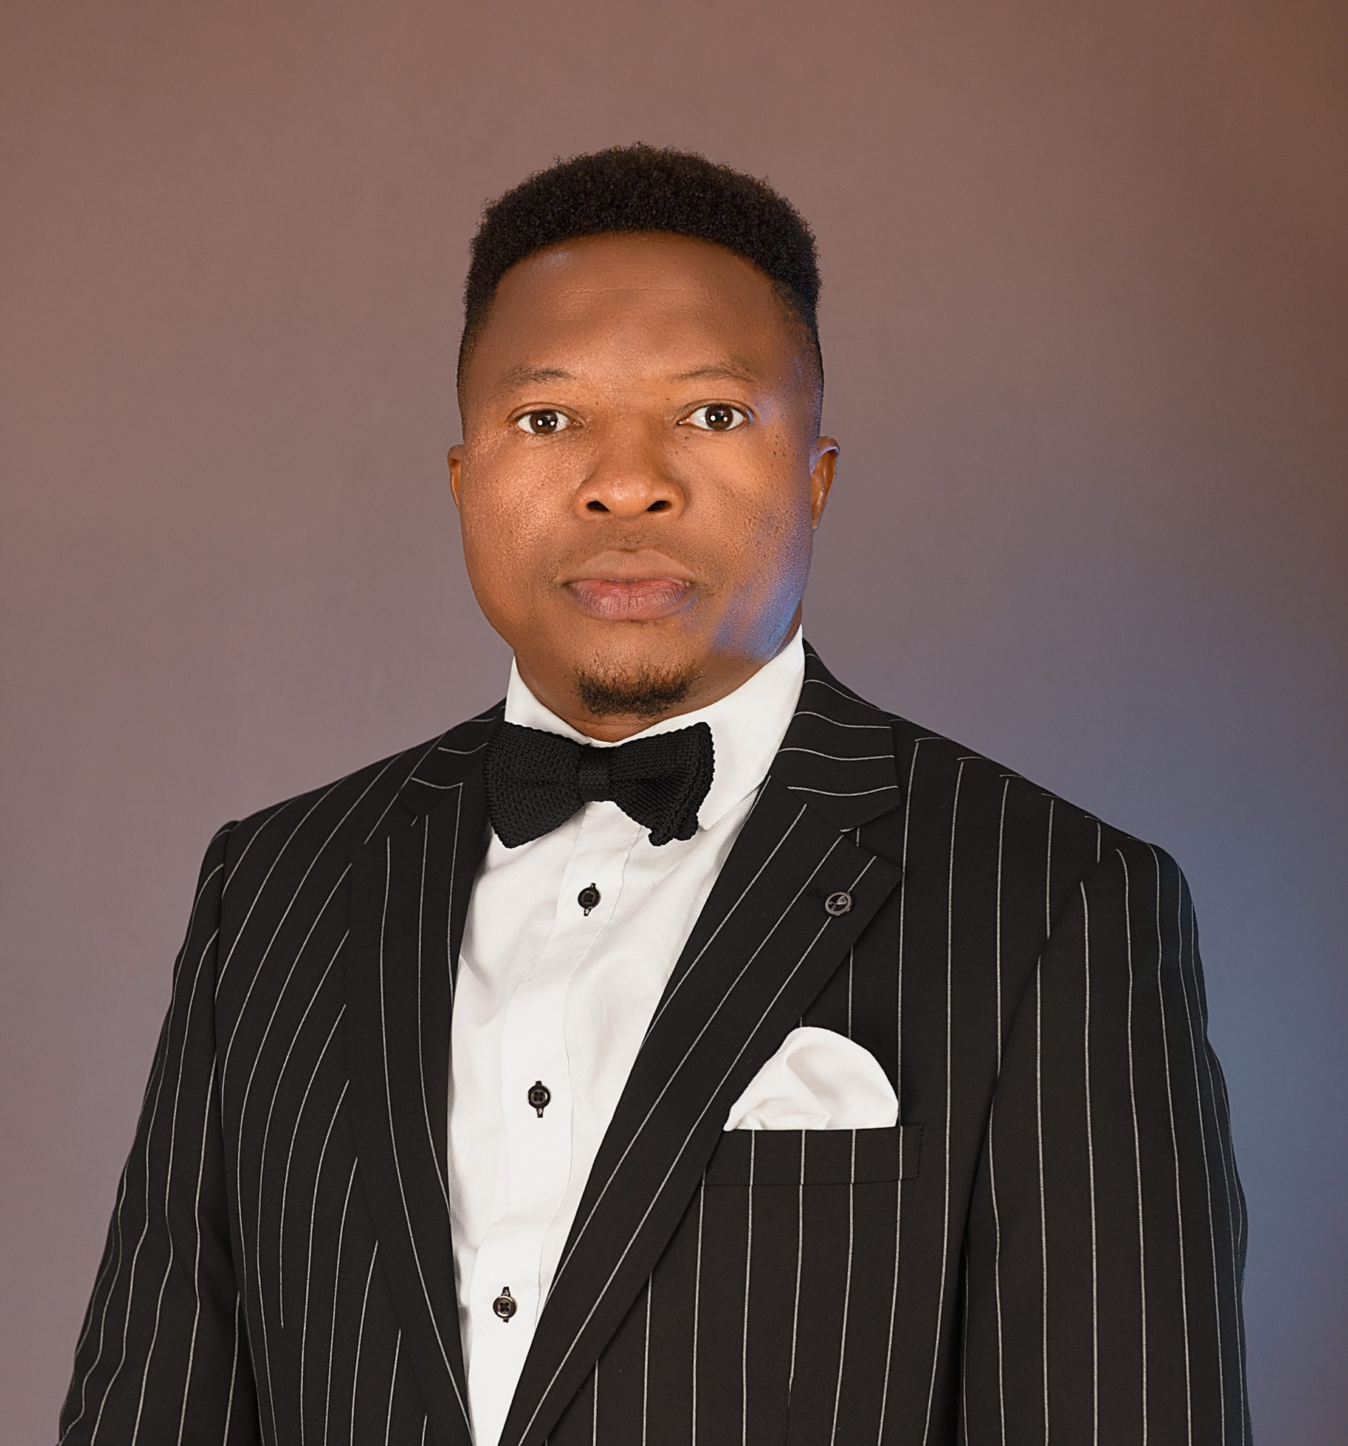
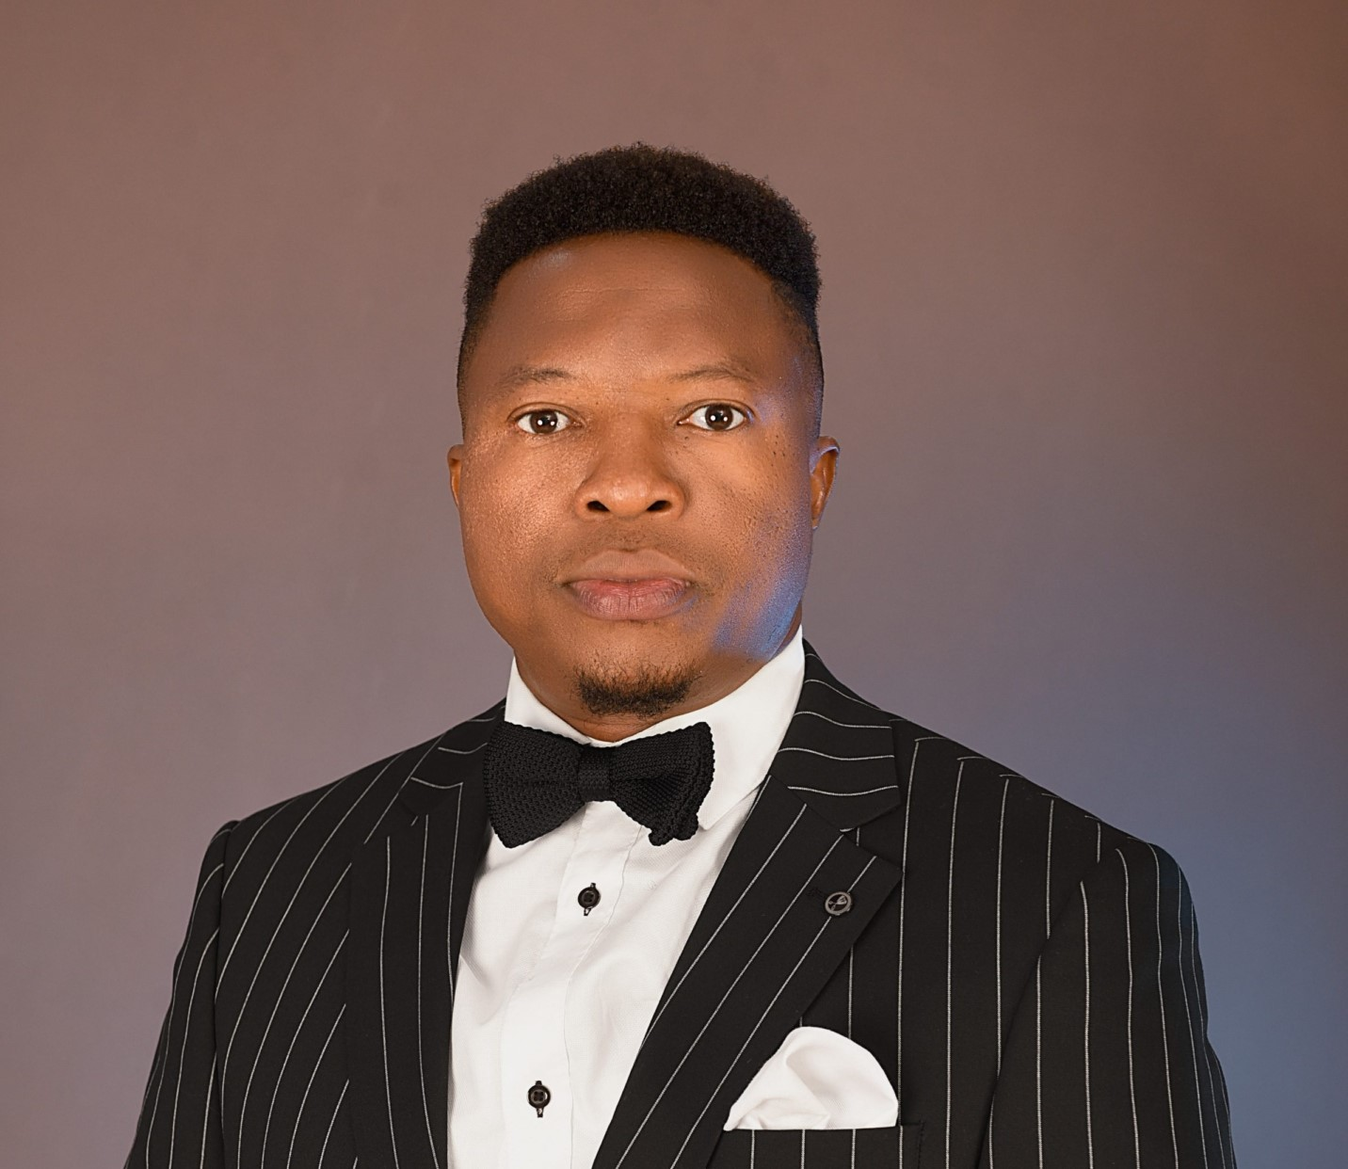
Updated text

Changed region(s): [[0.0307, 0.0918, 0.9525, 1.0]]

diff --git a/src/pages/BoardOfDirectorsPage.jsx b/src/pages/BoardOfDirectorsPage.jsx
@@ -2,7 +2,7 @@ import Mainlayout from "../Mainlayout";
 import CorporateStatement from "../components/CorporateStatement";
 import GetInTouch from "../components/GetInTouch";
 import Footer from "../components/Footer";
-import chairman from "../assets/images/chairman.png";
+import founders from "../assets/images/founders.jpg";
 import president from "../assets/images/president.jpg";
 import Daniel from "../assets/images/Daniel.jpg";
 import peace from "../assets/images/peace.jpg";
@@ -16,22 +16,34 @@ const BoardOfDirectorsPage = () => {
                     <div className="absolute right-0 bottom-0 opacity-15 ">
                         <img src={note_des} className="h-52" />
                     </div>
-                    <div className="flex py-12 xl:py-24 xl:gap-4 flex-col xl:flex-row">
+                    <div className="flex items-center py-12 xl:py-24 xl:gap-4 flex-col xl:flex-row">
                         {/* Image Section */}
-                        <div className="flex-1 w-full  text-center">
-                            <img src={chairman} className="w-full h-auto" alt="PWAN Haven Staff" />
+                        <div className="flex-1 text-center">
+                            <img src={founders} className="w-full h-auto" alt="PWAN Haven Staff" />
                         </div>
 
                         {/* Text Section */}
                         <div className="flex-1">
                             <h2 className="text-blue-900 text-2xl text-left mb-4 font-bold xl:text-left">Dr Augustine OziomaOnwumere</h2>
                             <p className="text-sm  text-red-600 font-semibold mb-4">Founders Of PWAN GROUP</p>
-                            <p className="text-xs xl:text-sm text-gray-400 leading-6 font-semibold">
-                                We As the vision bearer, Dr. Augustine and Dr Jayne Onwumere demonstrated to the World how to successfully operate the business of Real Estate Network Marketing, entrusting the leadership of PWAN GROUP ( with over 70 affiliates Companies) into the hands of members and Promoters of the Business who ones were independent marketers in the organisation that has lead millions of people out of poverty and lack into prosperity and financial freedom just by opening centers that train and recruit novices and people who must discover Real Estate Network Marketing.
+                            <p className="text-xs xl:text-sm text-gray-400 leading-6 font-semibold text-justify">
+                                The story of Dr. Augustine Ozioma Onwumere and Dr. Jayne Obioma Onwumere is truly inspiring and a testament to resilience, vision, and unwavering commitment to human empowerment. Their journey—from leaving their comfort zones to facing homelessness while still honoring their financial obligations—demonstrates remarkable integrity and perseverance.
+
+                                Key Highlights of Their Journey:
+                                Pursuit of Personal Development: Despite challenges, they remained dedicated to self-improvement and business growth, engaging in network marketing and human capacity development.
+
+                                Failure as a Stepping Stone: The collapse of their first venture, Learning World, led to two years of homelessness, yet they prioritized repaying investors—an act of rare ethical responsibility.
+
+                                Birth of PWAN: Out of their struggles emerged Property World Africa Network (PWAN), a groundbreaking empowerment platform that has grown exponentially, now encompassing over 64 affiliate companies and 63 Managing Directors.
+
+                                Expansion and Impact: With over 1,200 staff across Nigeria and beyond, PWAN stands as a beacon of African entrepreneurship and empowerment.
+
+                                Legacy of the Onwumeres:
+                                Their story underscores that true success is born from perseverance, ethical leadership, and a commitment to uplifting others. PWAN’s growth reflects not just a business triumph but a movement transforming lives across Africa.
                             </p>
                         </div>
                     </div>
-                    <div className="flex py-12 xl:py-24 xl:gap-4 flex-col xl:flex-row">
+                    <div className="flex items-center py-12 xl:py-24 xl:gap-4 flex-col xl:flex-row">
                         {/* Image Section */}
                         <div className="flex-1 w-full  text-center">
                             <img src={president} className="w-full h-auto" alt="PWAN Haven Staff" />
@@ -41,12 +53,26 @@ const BoardOfDirectorsPage = () => {
                         <div className="flex-1">
                             <h2 className="text-blue-900 text-2xl text-left mb-4 font-bold xl:text-left">Dr Jane Obioma Onwumere</h2>
                             <p className="text-sm  text-red-600 font-semibold mb-4">Co-Founders Of PWAN GROUP</p>
-                            <p className="text-xs xl:text-sm text-gray-400 leading-6 font-semibold">
-                                We As the vision bearer, Dr. Augustine and Dr Jayne Onwumere demonstrated to the World how to successfully operate the business of Real Estate Network Marketing, entrusting the leadership of PWAN GROUP ( with over 70 affiliates Companies) into the hands of members and Promoters of the Business who ones were independent marketers in the organisation that has lead millions of people out of poverty and lack into prosperity and financial freedom just by opening centers that train and recruit novices and people who must discover Real Estate Network Marketing.
+                            <p className="text-xs xl:text-sm text-gray-400 leading-6 font-semibold text-justify">
+                                Dr Jayne Obioma Onwumere (Sun Man of the Year 2024) epitomizes visionary leadership as the Co-founder of Properly World Africa Network (PWAN), the first real estate network marketing company in the World. Since its inception in March 2012 as PWAN HOMES Limited, Dr Jayne has steered the organization to unparalleled success. She is currently serving as the President/Chief Executive Officer and Group Managing Director of PWAN and oversees a vast network comprising 63 Managing Directors and over 1200 full-time staff across 62 affiliate companies. Under her guidance, PWAN has cultivated a dynamic community of over 300,000 independent real estate professionals globally popularly known as PWAN Business Owners (PBOs).
+
+                                Driven by a relentless passion for networking and a strength-based approach, Dr Jayne Obioma Onwumere pioneered an innovative expansion strategy. Three years into the company’s operation, through this expansion initiative, PWAN HOMES formed a strategic partnership with independent consultants to establish additional companies within the PWAN Group. This groundbreaking growth initiative is a move that has no precedence in the history of business in Nigeria and has redefined business paradigms in Nigeria and beyond.
+
+                                Committed to addressing societal challenges, Dr O.J Onwumere launched the PWAN Food Network, aligning with the World Sustainable Development Goals of zero hunger. This initiative, dubbed "The Now Revolution," complements PWAN's vision of promoting home ownership while tackling food insecurity nationwide. This idea with the home ownership vision increased the organizational spread with physical presence in all 36 states of the Federation and the Federal Capital Territory, Abuja, Nigeria.
+
+                                In 2017, being a staunch advocate for women empowerment, “Mama Africa” as fondly called initiated the "Empowerment for all Women" Program, providing financial support to 50 women to start or enhance their businesses. Her empowerment program for women has been strengthened through partnerships with sponsors who are equally dogged and determined to liberate the woman gender from hardship to having a decent life. She has since continued to expand this program, offering monthly pay of N100,000 each to a new set of twelve women in 2020 with plans for further growth in no distant time.
+
+                                Her philanthropic endeavors across Nigeria are unparalleled and extend beyond economic empowerment. This is evidenced in September 2022, through her contribution to renovating and equipping two unmaintained primary schools in Nsukwa, Aniocha South LGA of Delta State Nigeria. Believing in the transformative power of education, provision for furniture, new uniforms and books were not left out in her agenda as Dr Jayne remains dedicated to securing a brighter future for children nationwide.
+
+                                Together with her husband, she pays school fees for so many children, pays house rent for many and keeps a completely open door policy that has made many refer to her as "Mummy, Mama Africa, Global Mummy" etc. All these eventually birthed the launch of the Jayne Onwumere Foundation in March 2024. A service that aims at providing aid, resources, and advocacy to those in need, advancing education, and contributing to the overall well-being of the society.
+
+                                In recognition of her outstanding contributions, Dr. Onwumere was awarded an Honorary Doctorate Degree by the European-American University, Commonwealth of Dominica. Additionally, she was honored as one of the "Top 100 Most Influential Women" by the Lagos State Government for her innovative strategies and impactful empowerment programs in real estate network marketing.
+
+                                She recently received the prestigious "Sun Man of the Year Award 2024," the first of its kind for a woman, "Sun Investor of the Year 2023 award" all from the SUN Publishing in Nigeria, recognizing her significant contributions to human capital investment among distinguished figures in the country. A lifelong learner, Dr. Onwumere has enriched her leadership acumen through programs at the Lagos Business School and the prestigious Owner President Management Program at Harvard University. Married to her best friend and both are blessed with lovely children, she finds fulfillment in family life while continuing to inspire positive change in society through the Jayne Onwumere Foundation, dedicated to promoting education and well-being for all.
                             </p>
                         </div>
                     </div>
-                    <div className="flex py-12 xl:py-24 xl:gap-4 flex-col xl:flex-row">
+                    <div className="flex items-center py-12 xl:py-24 xl:gap-4 flex-col xl:flex-row">
                         {/* Image Section */}
                         <div className="flex-1 w-full  text-center">
                             <img src={Daniel} className="w-full h-auto" alt="PWAN Haven Staff" />
@@ -56,11 +82,24 @@ const BoardOfDirectorsPage = () => {
                         <div className="flex-1">
                             <h2 className="text-blue-900 text-2xl text-left mb-4 font-bold xl:text-left">Daniel Nnadi</h2>
                             <p className="text-sm  text-red-600 font-semibold mb-4">MD/CEO</p>
-                            <p className="text-xs xl:text-sm text-gray-400 leading-6 font-semibold">
-                            Daniel Nnamdi is a visionary leader and an accomplished real estate professional with a proven track record in property development, investment, and urban planning. As the Managing Director/CEO of PWANHORIZON, he/she has been instrumental in transforming Nigeria’s real estate landscape by delivering innovative, sustainable, and high-value property solutions                            </p>
+                            <p className="text-xs xl:text-sm text-gray-400 leading-6 font-semibold text-justify">
+                                NNADI Daniel Osonduagwike (Global Salesman), is a seasoned Real Estate Investment Advisory Professional, an active citizen, an ardent advocate of the first world mindset, a strong proponent of transformational values, and servant leader with over 14 years professional experience cutting across Human Resources, Executive Management, Real Estate, Sales and Marketing, and Leadership Development.
+
+                                Daniel graduated with a BA. (Hons.) in Fine and Applied Art with options in (Graphics and Advertising) from Imo State University, a Mini-MBA in General Business Administration from Tekedia Institute Boston, a PMP certified project manager, a Certified Negotiation Specialist, a trained Ec-council CRM, and an alumnus of Junior Chamber International Leadership Academy.
+
+                                In 2010 he started his career in the HR department of United Bank for Africa HQ Marina, and led a team of colleagues in UBA Nigeria staff guarantor’s validation project. In 2012, he took up the opportunity to express his intent in the real estate sector by joining the sales force of PWAN Group. Through the platform created by PWAN, Daniel gained momentum and has today evolved with rooted knowledge in the real estate industry by servicing a pool of clientele both within and the diaspora.
+
+                                In March 2019, Daniel was appointed into the board of PWAN LEKKI as the Executive Director/Chief Operations Officer, in 2024 he was elevated to lead in the capacity of MD/CEO of PWAN Horizon where he oversees the daily operations and activities of the company while envisioning and implementing growth strategies. For a period spanning 13 years working with PWAN, first within her independent sales force, he has acquired and delivered diverse training locally and internationally and has widely traveled under the auspices of the company.
+
+                                As an active citizen and a member of Junior Chamber International, He served as the 21st President of Lagos Coral chapter in 2021. As part of recognition for his outstanding and continued service, he was awarded with JCI Senatorship, a life membership honor. He holds a diploma in Ministerial leadership from Proof Producers Bible School, he is a graduate of Leadership Masterclass at GOTNI Leadership Centre under the mentorship of Dr. Linus Okorie. He did an Oak seed Executive Leadership Course at Institute for National Transformation.
+
+                                He remained career focused and believes in the philosophy of the “the road less traveled”. He loves reading and is obsessed with good music.
+
+                                His Pulse: Advocating the oasis of the first world mindset in the third world Nations.
+                            </p>
                         </div>
                     </div>
-                    <div className="flex py-12 xl:py-24 xl:gap-4 flex-col xl:flex-row">
+                    <div className="flex items-center py-12 xl:py-24 xl:gap-4 flex-col xl:flex-row">
                         {/* Image Section */}
                         <div className="flex-1 w-full  text-center">
                             <img src={peace} className="w-full h-auto" alt="PWAN Haven Staff" />
@@ -70,11 +109,34 @@ const BoardOfDirectorsPage = () => {
                         <div className="flex-1">
                             <h2 className="text-blue-900 text-2xl text-left mb-4 font-bold xl:text-left">Peace O. Nnadi</h2>
                             <p className="text-sm  text-red-600 font-semibold mb-4">Non-Executive Director</p>
-                            <p className="text-xs xl:text-sm text-gray-400 leading-6 font-semibold">
-                            Peace is a Non-Executive Director at PWANHORIZON, offering strategic guidance and oversight to support the company’s growth in Nigeria’s real estate sector. With expertise in Real Estate, she contributes to sound governance and long-term planning.                            </p>
+                            <p className="text-xs xl:text-sm text-gray-400 leading-6 font-semibold text-justify">
+                                Nnadi Peace Oluebubechukwu is a seasoned Marketing and Real Estate professional, an experienced fashion designer and tutor with over 8 years professional experience cutting across Brand Marketing, Real Estate Marketing and Fashion Designing.
+
+
+
+                                She started her Career in 2016 in the sales and marketing department of Easylife Microfinance Bank where her knowledge about marketing was deployed to transform the company’s customer base and its cash flow. In 2017 she went ahead to work in a branding firm (JUST BRAND IT) as the executive marketing manager before she was called to serve (NYSC) where she taught as the marketing teacher.
+
+
+
+                                Peace was privileged to attend FGC Okigwe where she earned her SSCE. She proceeded to Abia State University and graduated with a BSc (Hons) in Marketing. Her passion for fashion and its enthusiasm led her to attend the prestigious Prudential Fashion Academy where she advanced her skills in Fashion designing haven initially gained the knowledge during NYSC.
+
+
+
+                                In 2018 she launched her fashion brand. Her quest to make a difference drove her in search of opportunities that will accommodate her passion for fashion and her career in marketing. In 2019 she joined the PWAN Group after briefly working for a Real Estate company in Lagos. In her first year in PWAN having understood the company's reward system, she has closed multiple deals and also emerged as one of the Group’s performance bonus earners.
+
+
+
+                                In 2024 she was appointed Non-Executive Director in PWAN Horizon.
+
+                                She is a graduate of the Institute for National Transformation's History Makers.
+
+
+
+                                Peace is a passionate, positive, and energy filled personality who loves good music, dancing and watching movies.
+                            </p>
                         </div>
                     </div>
-                    
+
                 </div>
 
             </div>

diff --git a/src/components/Form.jsx b/src/components/Form.jsx
@@ -3,7 +3,7 @@ import box_des from "../assets/svg_designs/box_design.svg";
 import { IoPin } from "react-icons/io5";
 
 
-const Form = ({ estateflyer, estatename, estatestyle, estatedes, estatefulldes, estateamenities, estatelocation, estateform }) => {
+const Form = ({ estateflyer, estatename, estatestyle, estatedes, estatefulldes, estateamenities, estatelocation, estateform, estateextralocation, estateextra }) => {
     return (
         <div className="bg-white p-10 xl:p-20 w-full xl:w-4/5 mb-24 relative">
             {/* Background Designs */}
@@ -37,6 +37,22 @@ const Form = ({ estateflyer, estatename, estatestyle, estatedes, estatefulldes, 
 
                 {
                     estatelocation.map((value, index) => (
+                        <p key={index} className="flex gap-1 items-center text-gray-500 mb-2 text-sm font-semibold">
+                            <IoPin className="text-red-600 " />
+                            {value}
+                        </p>
+                    ))
+                }
+
+                {
+                    estateextra.map((value, index) => (
+                        <p key={index} className="text-gray-500 mb-2 text-sm font-semibold">{value}</p>
+                    ))
+
+                }
+
+                {
+                    estateextralocation.map((value, index) => (
                         <p key={index} className="flex gap-1 items-center text-gray-500 mb-2 text-sm font-semibold">
                             <IoPin className="text-red-600 " />
                             {value}

diff --git a/src/pages/estates/ObibiPage.jsx b/src/pages/estates/ObibiPage.jsx
@@ -25,6 +25,18 @@ const ObibiPage = () => {
                 "SWIMMING POOL",
                 "LIBARY",
             ],
+            extra: [
+                "Located In close proximity to notable landmarks like:"
+            ],
+            extralocation: [
+                "Asaba International Airport",
+                "Witchtech Gerrand Company",
+                "Ogawashi-Ukwu Polytechnic",
+                "Oshimili North LGA",
+                "Northworthy Farms & Agro",
+                "Delta State Govt. House",
+                
+            ],
             form: obibiform
         }
     ];
@@ -32,7 +44,7 @@ const ObibiPage = () => {
 
     return (
         <Mainlayout>
-            <Form estateflyer={formInfo[0].flyer} estatename={formInfo[0].name} estatestyle={formInfo[0].style} estatefulldes={formInfo[0].fulldes} estatedes={formInfo[0].des} estateamenities={formInfo[0].amenities} estatelocation={formInfo[0].location} estateform={formInfo[0].form} />
+            <Form estateflyer={formInfo[0].flyer} estatename={formInfo[0].name} estatestyle={formInfo[0].style} estatefulldes={formInfo[0].fulldes} estatedes={formInfo[0].des} estateamenities={formInfo[0].amenities} estatelocation={formInfo[0].location} estateform={formInfo[0].form} estateextra={formInfo[0].extra} estateextralocation={formInfo[0].extralocation} />
             <GetInTouch />
             <Footer />
         </Mainlayout>

diff --git a/src/pages/estates/HorizonPage.jsx b/src/pages/estates/HorizonPage.jsx
@@ -25,6 +25,15 @@ const HorizonPage = () => {
                 "SWIMMING POOL",
                 "LIBARY",
             ],
+            extra: [
+                "Located In close proximity to notable landmarks like:"
+            ],
+            extralocation: [
+                "10mins to Koka Junction",
+                "Asaba International Airport",
+                "Chinese Construction Company",
+                "Admiralty University Immigration",
+            ],
             form: horizonform
         }
     ];
@@ -32,7 +41,7 @@ const HorizonPage = () => {
 
     return (
         <Mainlayout>
-            <Form estateflyer={formInfo[0].flyer} estatename={formInfo[0].name} estatestyle={formInfo[0].style} estatefulldes={formInfo[0].fulldes} estatedes={formInfo[0].des} estateamenities={formInfo[0].amenities} estatelocation={formInfo[0].location} estateform={formInfo[0].form} />
+            <Form estateflyer={formInfo[0].flyer} estatename={formInfo[0].name} estatestyle={formInfo[0].style} estatefulldes={formInfo[0].fulldes} estatedes={formInfo[0].des} estateamenities={formInfo[0].amenities} estatelocation={formInfo[0].location} estateform={formInfo[0].form} estateextra={formInfo[0].extra} estateextralocation={formInfo[0].extralocation} />
             <GetInTouch />
             <Footer />
         </Mainlayout>

diff --git a/src/pages/AboutPage.jsx b/src/pages/AboutPage.jsx
@@ -26,7 +26,7 @@ const AboutPage = () => {
 
                     {/* Text Content */}
                     <h1 className="text-white px-8 py-3 text-2xl xl:text-4xl font-bold absolute bottom-10 left-0">
-                        PWAN HORIZON <span className="text-red-600">INVESTMENT & REALTORS</span> <br /> LIMITED
+                        PWAN HORIZON <span className="text-red-600">REALTY & AGRO</span> <br /> LIMITED
                         <div className="mt-4">
                             <img src={line1_des} className="w-screen" />
                         </div>
